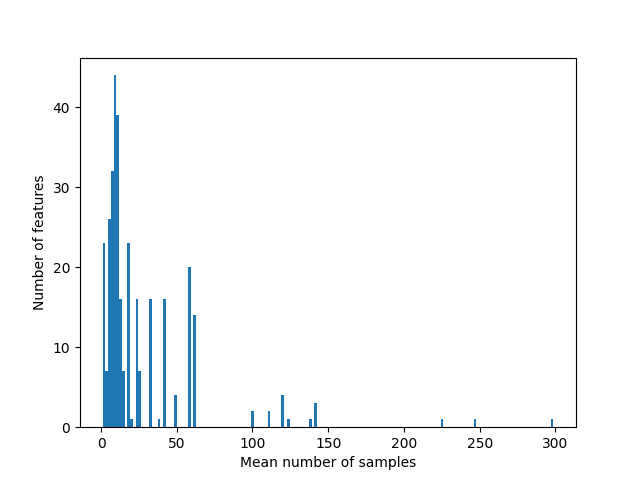
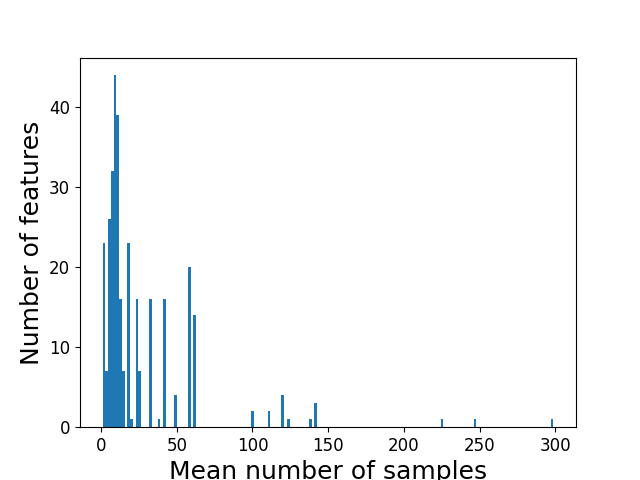
fixed plots

diff --git a/experiment1/dataloader.py b/experiment1/dataloader.py
@@ -108,11 +108,11 @@ def plot_together():
     """
     path = "/work5/share/NEDO/nedo-2019/data/processed_rosbags_topickles/fixed_pickles"
     # Call the plot function for each dataset
-    plt.rcParams.update({'font.size': 36, "xtick.labelsize": 24, "ytick.labelsize": 24, "axes.titlesize": 28, "figure.titlesize": 28})
-    fig1 = save_single_df(path, n_samples=50, test = True, interpolate=True)
-    fig2 = save_single_df(path, n_samples=100, test = True, interpolate=True)
-    fig3 = save_single_df(path, n_samples=150, test = True, interpolate=True)
-    fig4 = save_single_df(path, n_samples=200, test = True, interpolate=True)
+    plt.rcParams.update({'font.size': 32, "xtick.labelsize": 24, "ytick.labelsize": 24, "axes.titlesize": 28, "figure.titlesize": 28})
+    fig1 = save_single_df(path, n_samples=100, test = True, interpolate=True)
+    fig2 = save_single_df(path, n_samples=150, test = True, interpolate=True)
+    fig3 = save_single_df(path, n_samples=200, test = True, interpolate=True)
+    fig4 = save_single_df(path, n_samples=256, test = True, interpolate=True)
     # Combine the subplots into a grid
     fig = plt.figure(figsize=(15, 12))
     #fig.suptitle("Blink rate")
@@ -126,7 +126,7 @@ def plot_together():
         #ax.legend()
 
     fig.tight_layout()
-    fig.text(0.5, 0.04, 'Timestep', ha='center')
+    fig.text(0.5, 0.02, 'Timestep', ha='center')
     fig.text(0.01, 0.5, 'Blink rate', va='center', rotation='vertical')
 
     print("finished first", flush = True)
@@ -160,6 +160,7 @@ def get_n_samples():
     Function for counting number of samples for each feature in each video. 
     Also for calculating mean, median and std of this.
     """
+    plt.rcParams.update({'font.size': 28, "xtick.labelsize": 24, "ytick.labelsize": 24, "axes.titlesize": 28, "figure.titlesize": 28})
     path = "/work5/share/NEDO/nedo-2019/data/processed_rosbags_topickles/fixed_pickles"
     files = os.listdir(path)
     n_files = len(files)
@@ -225,42 +226,58 @@ def get_dataset_statistics():
     class_statistics.to_csv("results/class_statistics.csv")
 
 def plot_statistics(path="results/"):
+    #plt.rcParams.update({'font.size': 22})
     feature_stats = pd.read_csv(path + "feature_sample_size_statistics.csv").set_index("Unnamed: 0")
     #feature_stats = feature_stats.drop(columns = ["Unnamed: 0"])
     class_stats = pd.read_csv(path + "class_statistics.csv")
     # Plot class stats
     plt.bar(range(1, 15), class_stats["class_counter"])
-    plt.xticks(np.arange(1, 15, 1))
-    plt.xlabel('Class')
-    plt.ylabel('Occurences in NEDO-2019')
+    #plt.xticks(np.arange(1, 15, 1))
+    plt.xlabel('Class', fontsize=16)
+    plt.ylabel('Occurences', fontsize=16)
+    plt.xticks(fontsize=12)
+    plt.yticks(fontsize=12)
+    #plt.figure(figsize=(24, 18))
     plt.savefig(path + "class_stats")
     plt.clf()
     # Plot mean
     values = np.asarray(feature_stats["mean"], dtype="float")
     plt.hist(values, bins = int(len(values)/2))
-    plt.xlabel('Mean number of samples')
-    plt.ylabel('Number of features')
+    plt.xlabel('Mean number of samples', fontsize=16)
+    plt.ylabel('Number of features', fontsize=16)
+    plt.xticks(fontsize=12)
+    plt.yticks(fontsize=12)
+    #plt.figure(figsize=(22, 18))
     plt.savefig(path + "feature_stats_mean_samples")
     plt.clf()
     # Plot median
     values = np.asarray(feature_stats["median"], dtype="float")
     plt.hist(values, bins = int(len(values)/2))
-    plt.xlabel('Median number of samples')
-    plt.ylabel('Number of features')
+    plt.xlabel('Median number of samples', fontsize=16)
+    plt.ylabel('Number of features', fontsize=16)
+    plt.xticks(fontsize=12)
+    plt.yticks(fontsize=12)
+    #plt.figure(figsize=(20, 16))
     plt.savefig(path + "feature_stats_median_samples")
     plt.clf()
     # Plot std
     values = np.asarray(feature_stats["std"], dtype="float")
     plt.hist(values, bins = int(len(values)/2))
-    plt.xlabel('Standard deviation of number of samples')
-    plt.ylabel('Number of features')
+    plt.xlabel('Standard deviation of number of samples', fontsize=16)
+    plt.ylabel('Number of features', fontsize=16)
+    plt.xticks(fontsize=12)
+    plt.yticks(fontsize=12)
+    #plt.figure(figsize=(26, 20))
     plt.savefig(path + "feature_stats_std_samples")
     plt.clf()
     # Plot number of times feature is present
     values = np.asarray(feature_stats["n_present"], dtype="float")
     plt.hist(values, bins = int(len(values)/2))
-    plt.xlabel('Number of data samples present in')
-    plt.ylabel('Number of features')
+    plt.xlabel('Number of data samples present in', fontsize=16)
+    plt.ylabel('Number of features', fontsize=16)
+    plt.xticks(fontsize=12)
+    plt.yticks(fontsize=12)
+    #plt.figure(figsize=(28, 22))
     plt.savefig(path + "feature_stats_present_samples")
     plt.clf()
     # Plot distribution of sample sizes
@@ -360,11 +377,11 @@ def get_feature_names():
 
 if __name__ == "__main__":
     path = "/work5/share/NEDO/nedo-2019/data/processed_rosbags_topickles/fixed_pickles"
-    #plot_statistics()
+    plot_statistics()
     #get_dataset_statistics()
     #get_n_samples()
     #compute_sample_correlation(n_files = 2000)
     #save_single_df(path, n_samples = 200, test=False, interpolate = True, normalize = True)
     #get_feature_names()
-    plot_together()
+    #plot_together()
     print("Finished")
